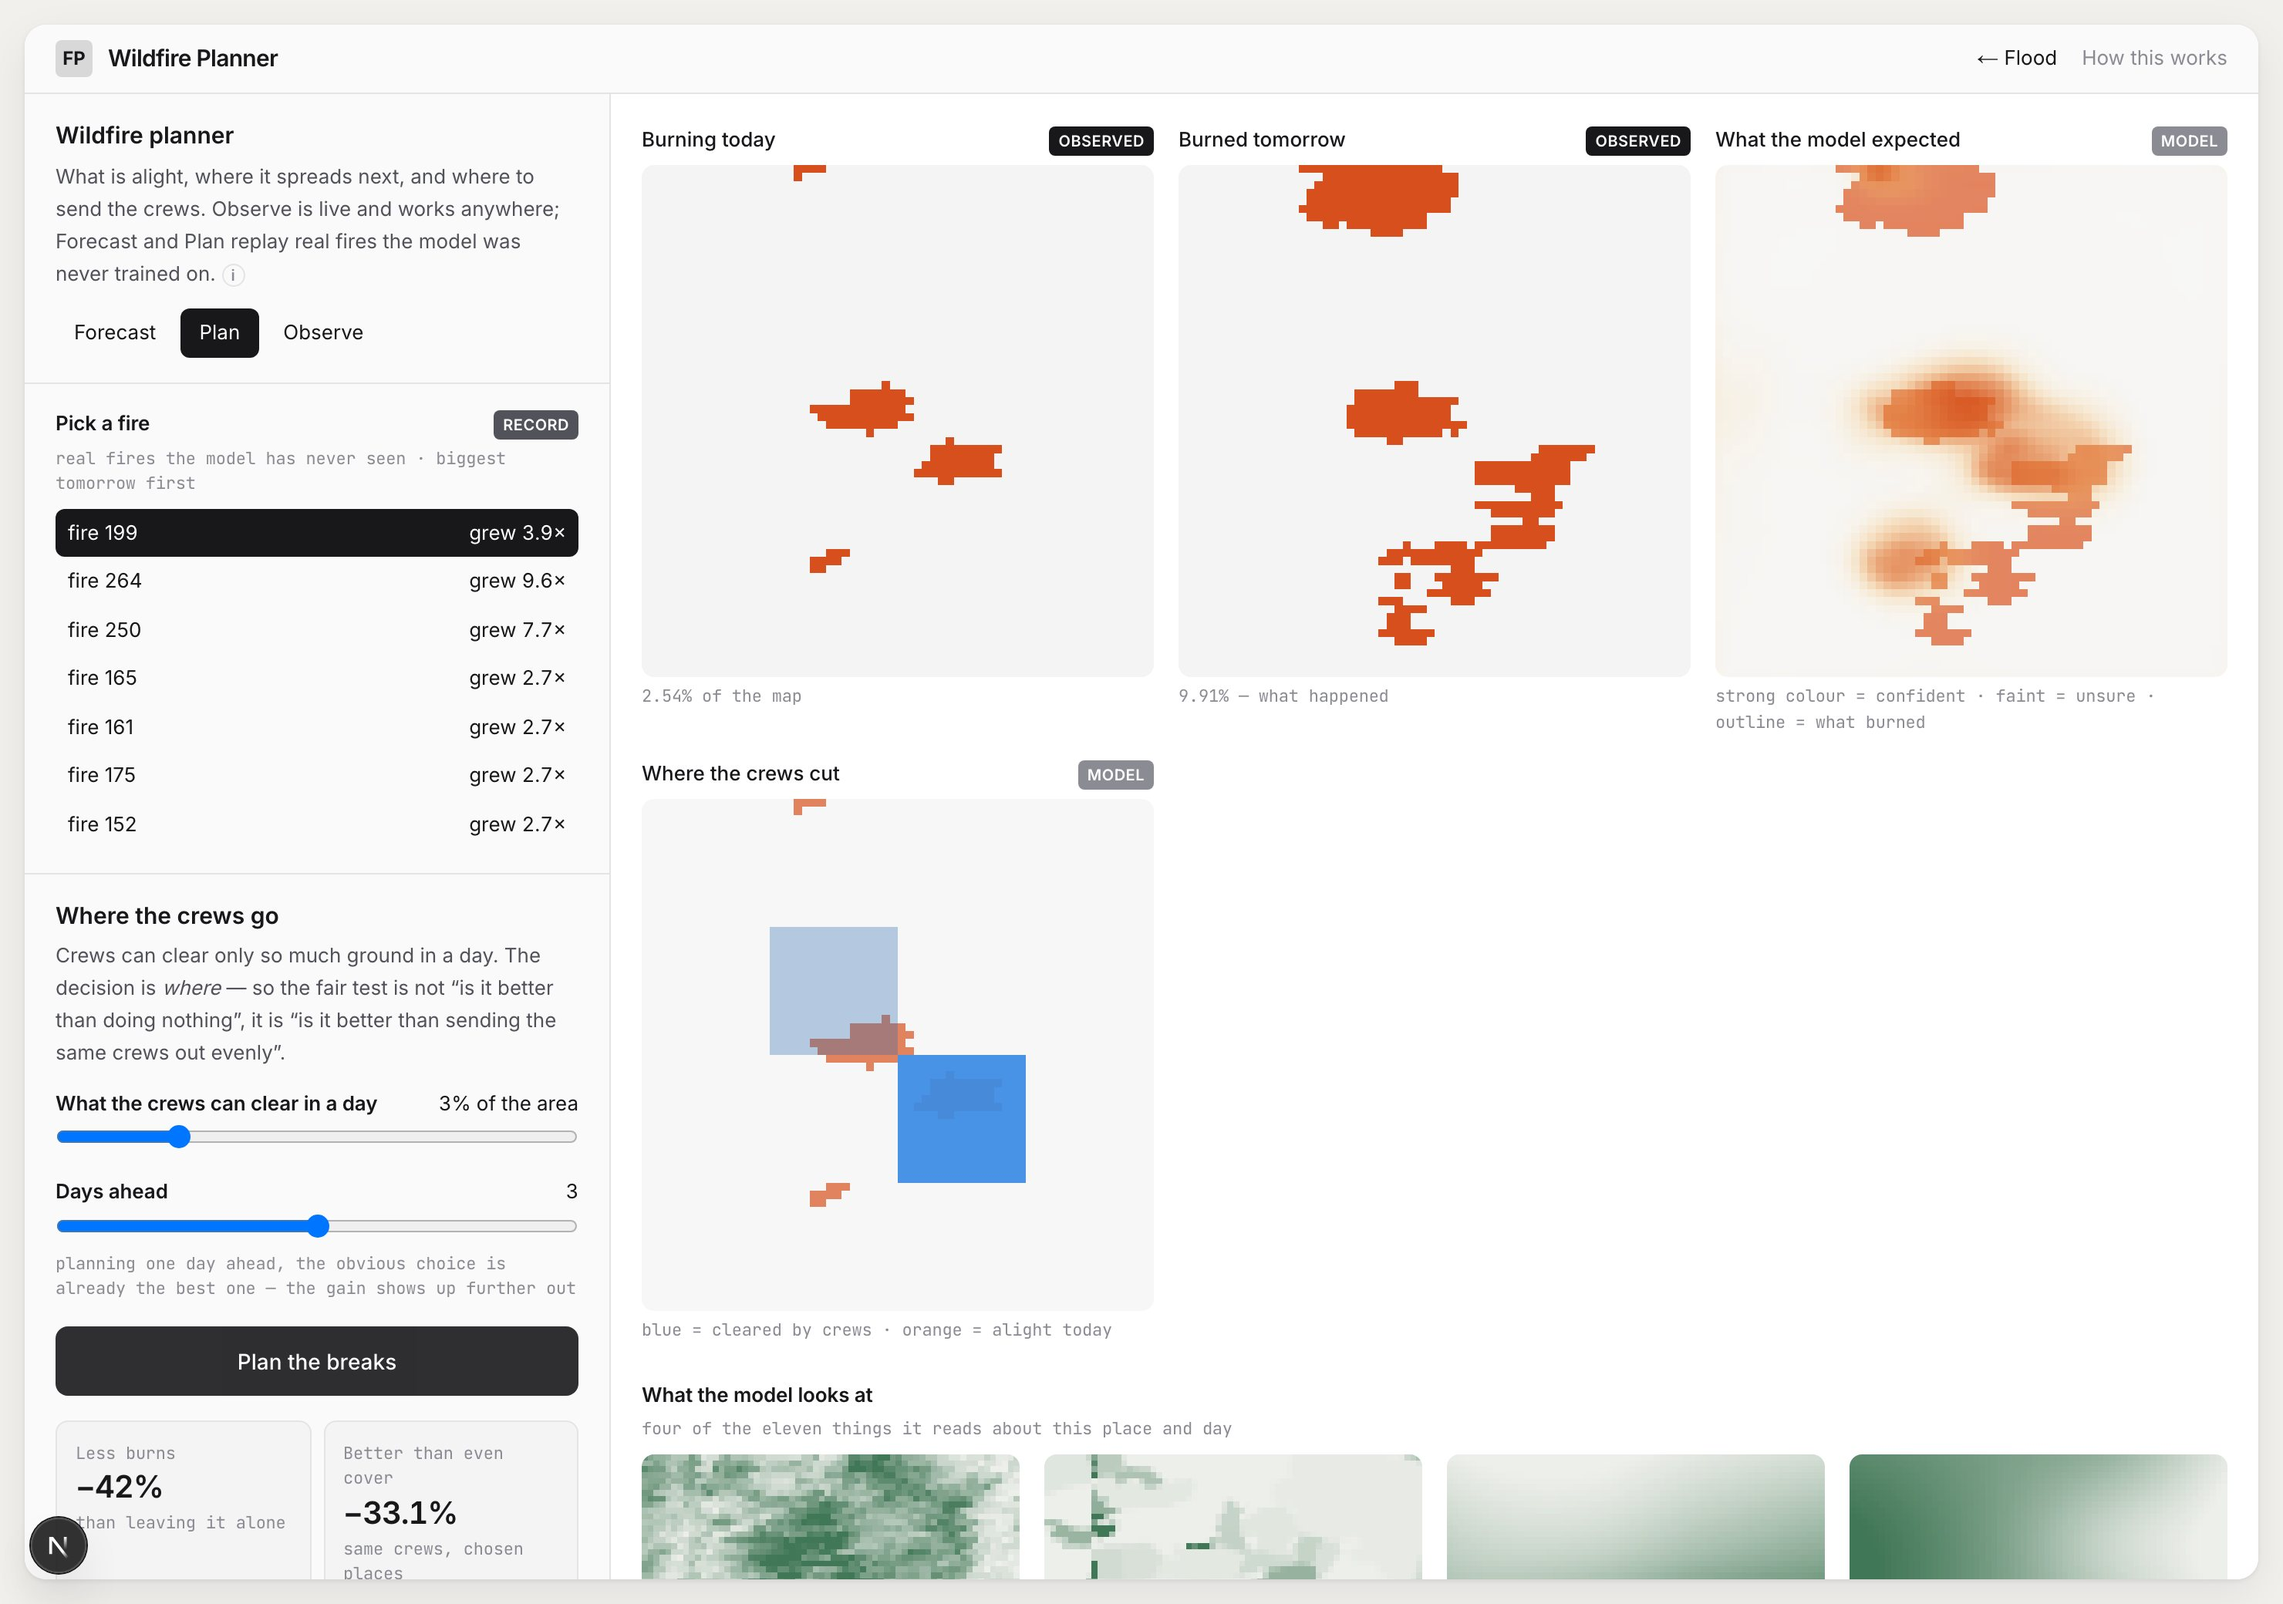
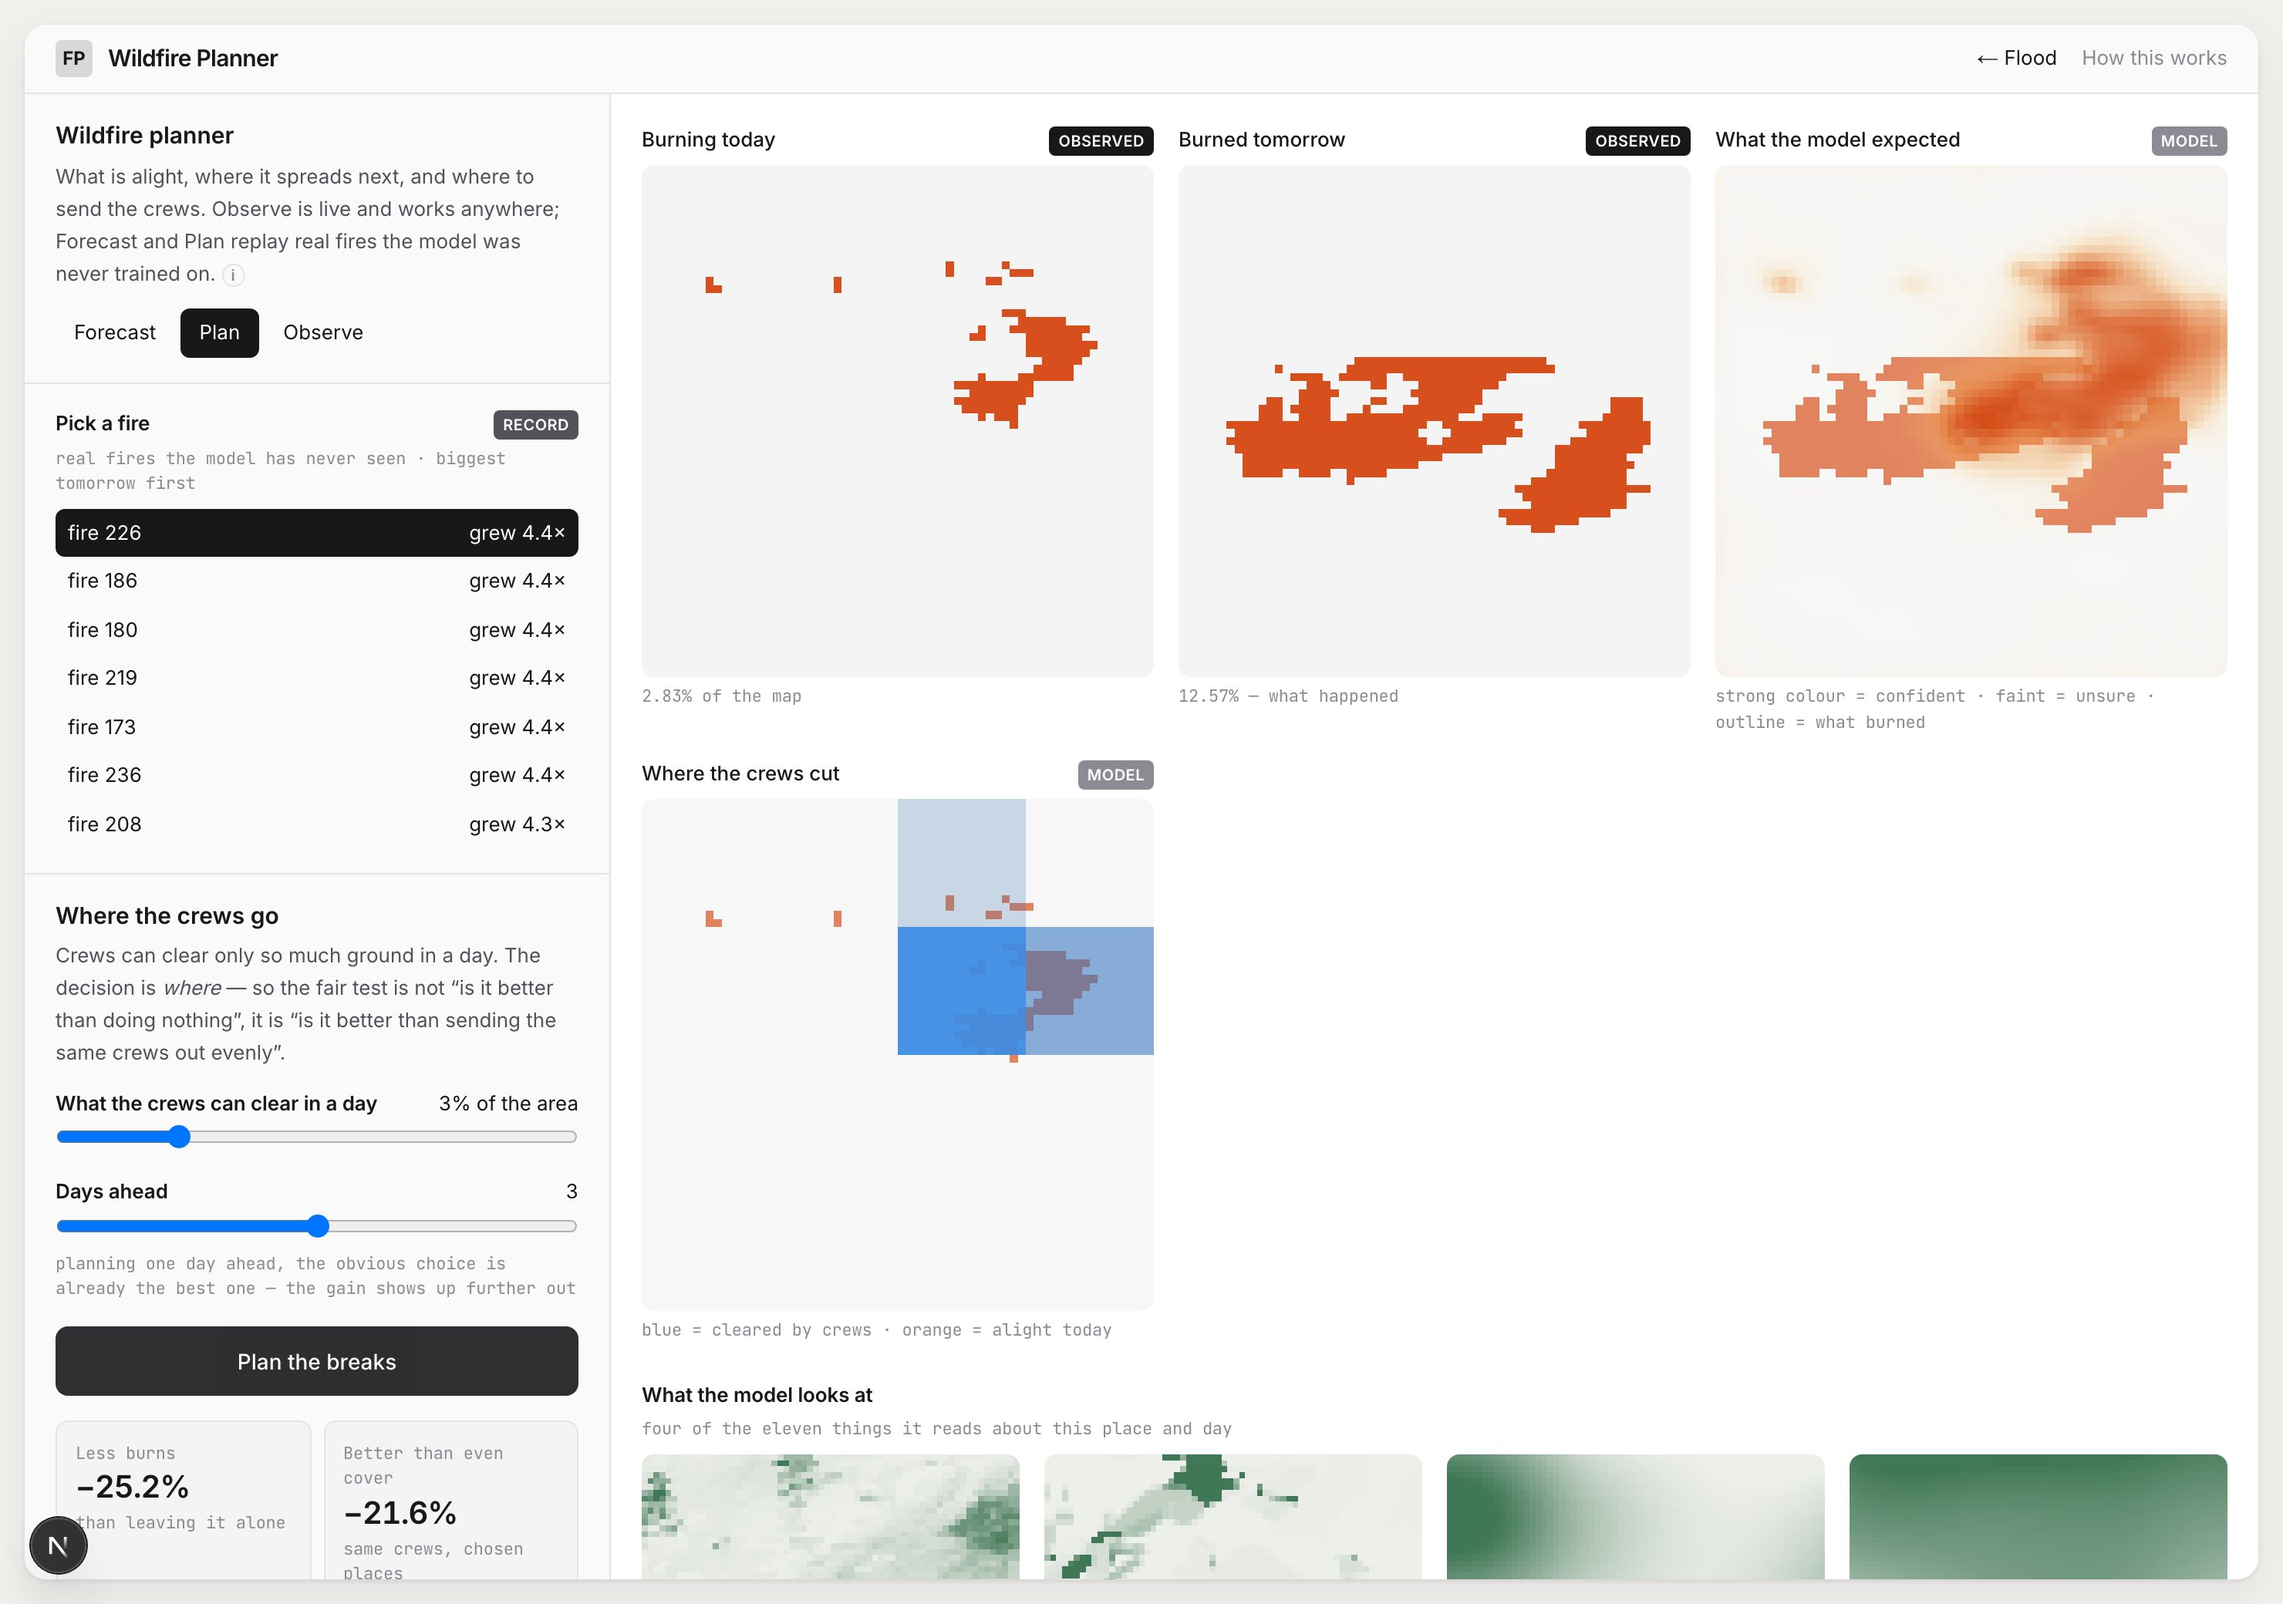
Forecast and plan work again, and the recovery path works too
The NDWS dataset was gone, so both tabs were refusing. Restored, and the
reason they could not be restored by the documented route is itself the
fix.

scripts/download_ndws.py checked for ~/.kaggle/kaggle.json and reported
"No Kaggle credentials found" on a machine that was perfectly well
authenticated. A recent "Create New Token" writes ~/.kaggle/access_token,
which the `kaggle` CLI does not read and kagglehub does. The script now
tries kagglehub first, falls back to the CLI, and names access_token in
its error. Verified by deleting data/ndws and re-running: 19 shards back
in seconds from cache, no second 2 GB download.

What came back is more than was there. The machine previously held one
test shard, so _records() could not compute driver statistics on the
TRAIN split and fell back to the held-out split's own -- a different
normalisation from the one the checkpoint was fitted under. With all 19
shards the statistics come from train, as training did:

  AUC-PR, held-out split     0.3260
  with the fallback          0.3157
  recorded, 3 seeds          0.3162 +/- 0.017

Inside the interval either way, and the fallback is now visibly the
worse of the two rather than a silent equivalent.

Working, on record 226 (2.83% alight, 12.57% the next day):

  forecast   83 found of 515, 350 false alarms, AP 0.188
  plan       0.298 -> 0.284 uniform -> 0.223 planned
             25.2% less than leaving it alone, 21.6% better than
[…]

diff --git a/scripts/download_ndws.py b/scripts/download_ndws.py
@@ -5,9 +5,11 @@
     python scripts/download_ndws.py --split eval    # just the eval split
 
 Needs a Kaggle API token: create one at kaggle.com -> Settings -> API ->
-"Create New Token", then save the downloaded kaggle.json at ~/.kaggle/kaggle.json
-with mode 600. The dataset itself is public; the token only identifies you to
-the API.
+"Create New Token". Recent tokens arrive as ~/.kaggle/access_token, which the
+`kaggle` CLI does not read; `kagglehub` does, and is tried first. Older
+kaggle.json and KAGGLE_USERNAME/KAGGLE_KEY both still work.
+
+The dataset itself is public; the token only identifies you to the API.
 
 No credential is read, stored, or transmitted by this repository beyond handing
 the standard Kaggle client its own config file.
@@ -38,12 +40,52 @@ def main() -> int:
     out = Path(args.out)
     out.mkdir(parents=True, exist_ok=True)
 
+    # Try kagglehub first. It accepts the credential forms the `kaggle` CLI
+    # does AND ~/.kaggle/access_token, which is what a recent "Create New
+    # Token" actually writes -- the CLI-only path below reported "no Kaggle
+    # credentials found" on a machine that was perfectly well authenticated,
+    # and the dataset sat un-downloadable behind a wrong error message.
+    #
+    # It also caches by dataset version, so a second call after an accidental
+    # deletion costs a symlink rather than 2 GB.
+    try:
+        import kagglehub                      # noqa: PLC0415
+    except ImportError:
+        kagglehub = None
+    if kagglehub is not None:
+        try:
+            cached = Path(kagglehub.dataset_download(DATASET))
+            shards = sorted(cached.rglob("*.tfrecord"))
+            if shards:
+                for src in shards:
+                    if args.split and not src.name.startswith(SPLIT_PREFIX[args.split]):
+                        continue
+                    dst = out / src.name
+                    if dst.is_symlink() or dst.exists():
+                        dst.unlink()
+                    # Symlink rather than copy: the cache already holds 2 GB
+                    # and a second copy helps nobody.
+                    dst.symlink_to(src)
+                files = sorted(out.glob("*.tfrecord"))
+                total = sum(f.stat().st_size for f in files) / 1e6
+                print(f"{len(files)} tfrecord file(s), {total:.0f} MB linked into {out}")
+                print(f"  cache: {cached}")
+                return 0
+            print("kagglehub returned no tfrecords; falling back to the CLI",
+                  file=sys.stderr)
+        except Exception as exc:                                # noqa: BLE001
+            print(f"kagglehub could not fetch it ({str(exc)[:120]}); "
+                  f"falling back to the CLI", file=sys.stderr)
+
     token = Path.home() / ".kaggle" / "kaggle.json"
-    if not token.exists() and not os.environ.get("KAGGLE_USERNAME"):
+    access = Path.home() / ".kaggle" / "access_token"
+    if not token.exists() and not access.exists() and not os.environ.get("KAGGLE_USERNAME"):
         print(
             "No Kaggle credentials found.\n"
-            f"  expected {token}, or KAGGLE_USERNAME/KAGGLE_KEY in the environment\n"
-            "  get a token at kaggle.com -> Settings -> API -> Create New Token",
+            f"  expected {token}, {access}, or KAGGLE_USERNAME/KAGGLE_KEY\n"
+            "  get a token at kaggle.com -> Settings -> API -> Create New Token\n"
+            "  and install one of: pip install kagglehub   (handles access_token)\n"
+            "                      pip install kaggle      (needs kaggle.json)",
             file=sys.stderr,
         )
         return 2
@@ -58,7 +100,9 @@ def main() -> int:
     try:
         proc = subprocess.run(cmd)
     except FileNotFoundError:
-        print("`kaggle` CLI not installed: pip install kaggle", file=sys.stderr)
+        print("Neither kagglehub nor the kaggle CLI is installed.\n"
+              "  pip install kagglehub   (works with ~/.kaggle/access_token)",
+              file=sys.stderr)
         return 2
     if proc.returncode != 0:
         return proc.returncode
